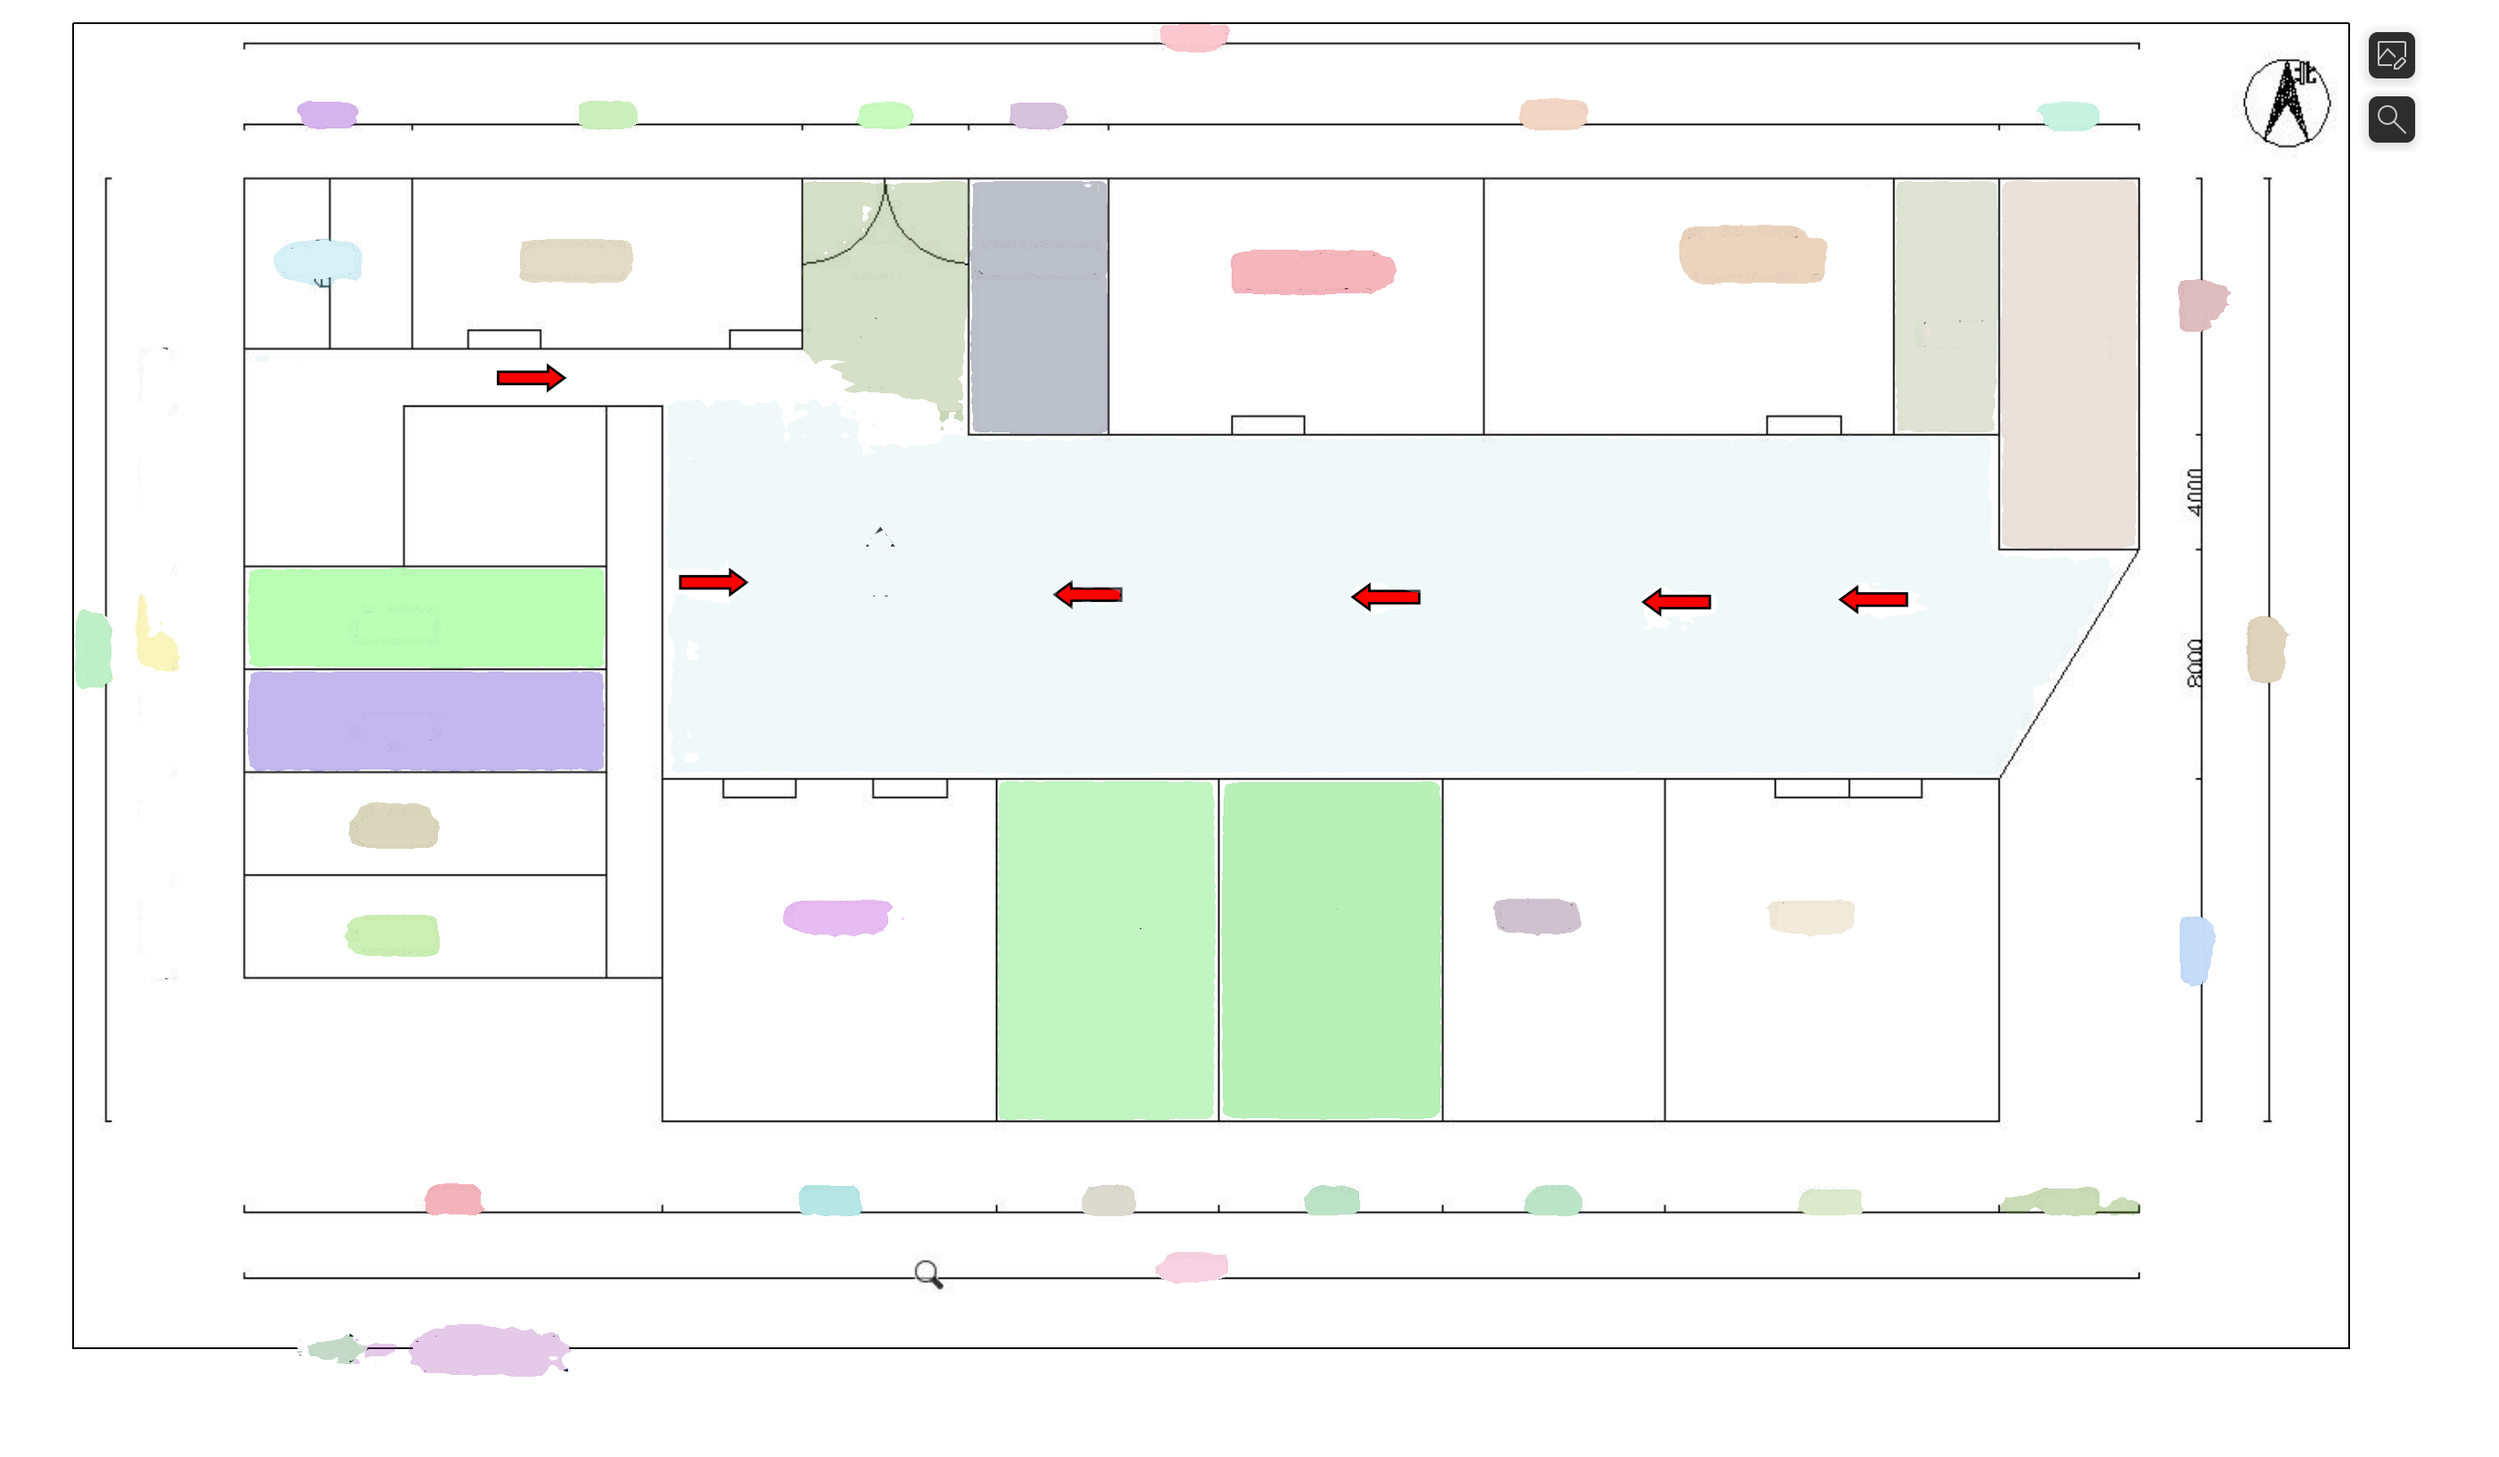
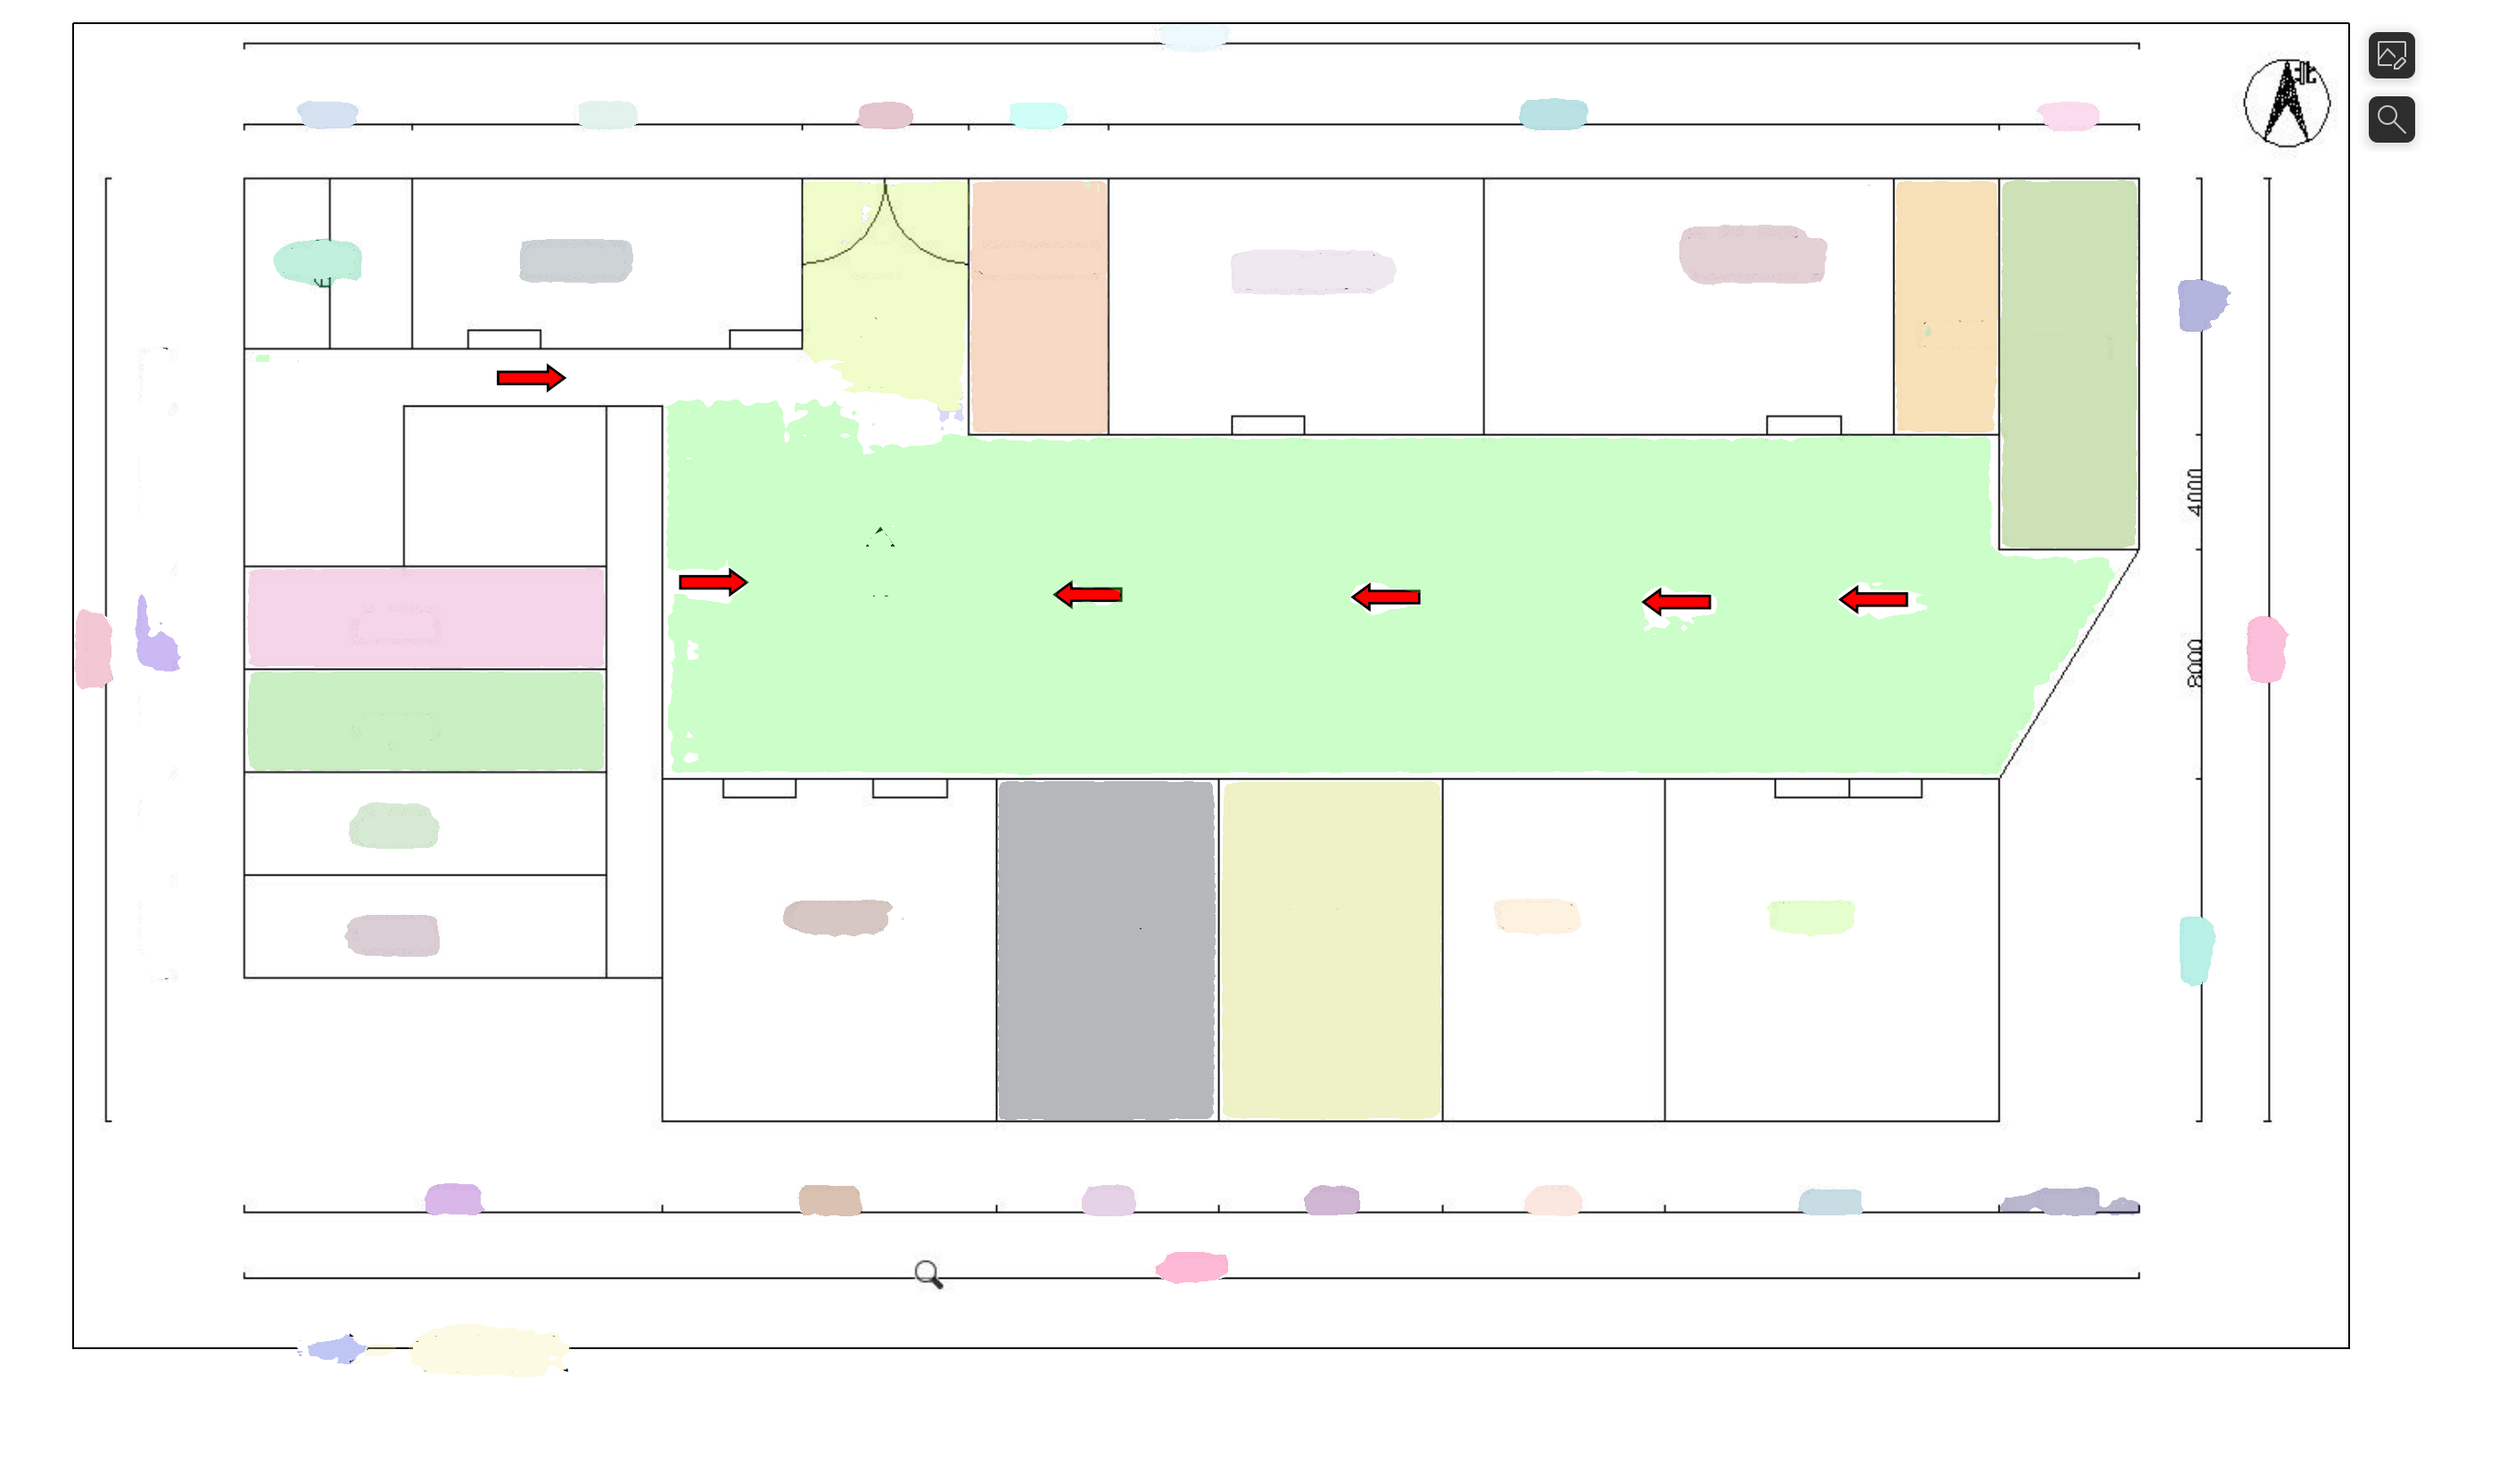
实现文字写回逻辑

diff --git a/src/text_restorer.py b/src/text_restorer.py
@@ -1,0 +1,98 @@
+import os
+import cv2
+import numpy as np
+
+class TextRestorer:
+    def __init__(self, data_dir='./data', output_dir='./output', cache_dir='./cache'):
+        """
+        初始化路径配置
+        :param data_dir: 原图存放目录
+        :param output_dir: 处理后图片及最终结果存放目录
+        :param cache_dir: 缓存目录 (存放 mask)
+        """
+        self.data_dir = data_dir
+        self.output_dir = output_dir
+        self.cache_dir = cache_dir
+
+    def run(self, img_name):
+        """
+        执行文字回填操作
+        :param img_name: 图片文件名 (例如 'factory.jpg')
+        :return: 保存的新图片路径
+        """
+        # --- 1. 构建文件路径 ---
+        # 原图路径: ./data/{img_name}
+        origin_path = os.path.join(self.data_dir, img_name)
+        
+        # 处理后的图路径: ./output/processed_{img_name}
+        processed_path = os.path.join(self.output_dir, f"processed_{img_name}")
+        
+        # Mask 路径: ./cache/character_mask/character_mask.png (固定路径)
+        mask_path = os.path.join(self.cache_dir, "character_mask", "character_mask.png")
+
+        # --- 2. 读取图片 ---
+        print(f"Loading images for restoration...")
+        
+        origin_img = cv2.imread(origin_path)
+        if origin_img is None:
+            raise FileNotFoundError(f"Original image not found: {origin_path}")
+
+        processed_img = cv2.imread(processed_path)
+        if processed_img is None:
+            raise FileNotFoundError(f"Processed image not found: {processed_path}")
+
+        # Mask 读取 (保持RGB模式，以便判断白色)
+        mask_img = cv2.imread(mask_path)
+        
+        # 如果 mask 不存在，直接返回处理后的图，或者报错
+        if mask_img is None:
+            print(f"Warning: Mask not found at {mask_path}. Skipping restoration.")
+            return processed_path
+
+        # --- 3. 尺寸校验与对齐 ---
+        # 以原图尺寸为基准
+        h, w = origin_img.shape[:2]
+        
+        # 确保 processed_img 尺寸一致
+        if processed_img.shape[:2] != (h, w):
+            processed_img = cv2.resize(processed_img, (w, h))
+        
+        # 确保 mask_img 尺寸一致
+        if mask_img.shape[:2] != (h, w):
+            mask_img = cv2.resize(mask_img, (w, h), interpolation=cv2.INTER_NEAREST)
+
+        # --- 4. 核心逻辑：根据 Mask 回填像素 ---
+        # 目标：创建一个 boolean mask，其中 Mask 图中为纯白色的地方为 True
+        # 定义白色的范围 (BGR: 255, 255, 255)
+        lower_white = np.array([255, 255, 255], dtype=np.uint8)
+        upper_white = np.array([255, 255, 255], dtype=np.uint8)
+        
+        # 生成二值掩膜 (white_region 中，白色区域值为 255，其余为 0)
+        white_region = cv2.inRange(mask_img, lower_white, upper_white)
+        
+        # 创建画布，以 processed_img 为底
+        final_img = processed_img.copy()
+        
+        # 关键步骤：利用 numpy 布尔索引进行像素替换
+        # 将 final_img 中对应 Mask 为白色的位置，替换为 origin_img 中对应位置的像素
+        final_img[white_region > 0] = origin_img[white_region > 0]
+
+        # --- 5. 保存结果 ---
+        # 新文件名: write_back_{img_name}
+        save_name = f"write_back_{img_name}"
+        save_path = os.path.join(self.output_dir, save_name)
+        
+        cv2.imwrite(save_path, final_img)
+        print(f"✅ Text restored and saved to: {save_path}")
+        
+        return save_path
+
+# --- 测试代码 ---
+if __name__ == "__main__":
+    # 假设你在项目根目录下运行
+    restorer = TextRestorer()
+    try:
+        # 请确保 ./data/factory.jpg 和 ./output/processed_factory.jpg 存在
+        restorer.run("map_10.png")
+    except Exception as e:
+        print(f"Error: {e}")

diff --git a/src/result_drawer.py b/src/result_drawer.py
@@ -129,6 +129,36 @@ class ResultVisualizer:
                     else:
                         print(f"Error reading mask: {mask_path}")
 
+
+        # char_mask_path = os.path.join("cache", "character", "character_mask.png")
+        # if os.path.exists(char_mask_path):
+        #     # 读取 mask (保留三通道，因为要判断是否为白色 [255,255,255])
+        #     char_mask = cv2.imread(char_mask_path)
+        #     if char_mask is not None:
+        #         # 安全检查：确保尺寸一致，不一致则缩放
+        #         if char_mask.shape != img_shape:
+        #             char_mask = cv2.resize(char_mask, (img_shape[1], img_shape[0]))
+                
+        #             # 定义白色的范围 (OpenCV中 BGR 也是 255,255,255)
+        #             # 使用 inRange 提取精确的白色像素 mask
+        #             lower_white = np.array([255, 255, 255], dtype=np.uint8)
+        #             upper_white = np.array([255, 255, 255], dtype=np.uint8)
+                    
+        #             # white_area 是一个二值图，白色区域为 255，其他为 0
+        #             white_area = cv2.inRange(char_mask, lower_white, upper_white)
+                    
+        #             # --- 核心替换逻辑 ---
+        #             # 在 white_area > 0 (即白色) 的位置，
+        #             # 将 canvas_img 的像素替换回 base_img (最原始的未污染图像) 的像素
+        #             canvas_img[white_area > 0] = base_img[white_area > 0]
+                    
+        #             print(f"Character restored using: {char_mask_path}")
+        #         else:
+        #             print(f"Warning: Failed to read existing character mask at {char_mask_path}")
+        #     else:
+        #         # 如果文件不存在，可以根据需求选择 print 或者 pass
+        #         print(f"Note: No character mask found at {char_mask_path}, skipping restoration.")
+
         # 3. 保存结果图像
         output_path = os.path.join(self.output_dir, output_filename)
         cv2.imwrite(output_path, canvas_img)

diff --git a/src/main.py b/src/main.py
@@ -6,10 +6,11 @@ from ocr_utils import IndustrialOCRManager
 from sam2_utils import SAM2Segmenter
 from mask_overlap import MaskOverlapFilter
 from result_drawer import ResultVisualizer
+from text_restorer import TextRestorer
 
 
 # --- 1. 配置路径 ---
-img_name = "map_10.png"
+img_name = "map_8.png"
 img_path = os.path.join("data", img_name)
 output_dir = "output"
 os.makedirs(output_dir, exist_ok=True)
@@ -85,6 +86,7 @@ sam2 = SAM2Segmenter(model_type="tiny")
 image_bgr = cv2.imread(img_path)
 image_rgb = cv2.cvtColor(image_bgr, cv2.COLOR_BGR2RGB)
 color_overlay = image_bgr.copy()
+character_mask = np.zeros_like(image_bgr)
 
 # 4. 【核心调用】批量获取所有 Masks
 # 这一步非常快，因为是一次性推理
@@ -102,16 +104,22 @@ for i, mask in enumerate(all_masks):
     
     # 上色
     color_overlay[mask_bool] = color
+    character_mask[mask_bool] = color
     
     # 打印对应的文字（方便调试）
     print(f"已处理: {ocr_results[i]['text']}")
 
 # 6. 保存结果
-result = cv2.addWeighted(image_bgr, 0.7, color_overlay, 0.3, 0)
+# result = cv2.addWeighted(image_bgr, 0.7, color_overlay, 0.3, 0)
 save_path = os.path.join("output", f"sam2_box_whight_colored_{img_name}")
 # cv2.imwrite(save_path, result)
 cv2.imwrite(save_path, color_overlay)
 print(f"✅ 结果已保存至: {save_path}")
+
+save_path = os.path.join("cache", "character_mask", "character_mask.png")
+cv2.imwrite(save_path, character_mask)
+print(f"character_mask已保存至: {save_path}")
+
 
 
 
@@ -263,6 +271,21 @@ except Exception as e:
     print(f"❌ Unexpected Error: {e}")
     import traceback
     traceback.print_exc()
+
+
+
+#-------------------------------------------------------------
+#写回文字
+#-------------------------------------------------------------
+
+
+restorer = TextRestorer()
+try:
+    # 请确保 ./data/factory.jpg 和 ./output/processed_factory.jpg 存在
+    restorer.run(img_name)
+except Exception as e:
+    print(f"Error: {e}")
+
 
 
 #-------------------------------------------------------------

diff --git a/src/sam2_utils.py b/src/sam2_utils.py
@@ -106,9 +106,7 @@ class SAM2Segmenter:
         # 去掉中间那个维度 1，变成 (N, H, W)，方便后续遍历使用
         if masks.ndim == 4:
             masks = masks.squeeze(1)
-
-        if save_cache:
-            self._save_to_cache(self, masks, prefix= "box_mask")          
+      
         return masks
     
 # ==========================================
